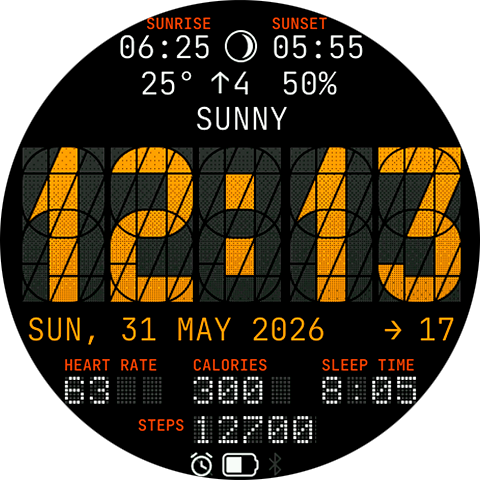
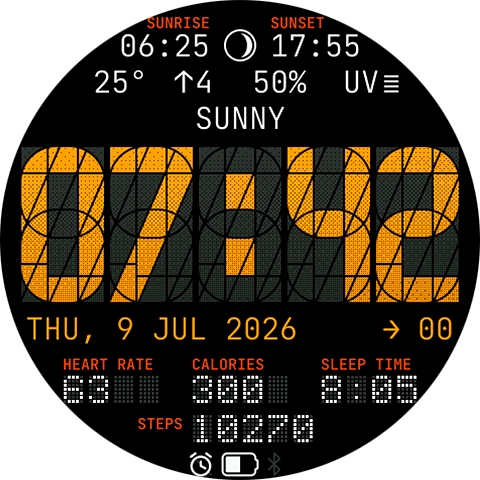
feat(segment 34): add uvi

diff --git a/src/watchfaces/segment-34/watchface/Weather.layout.js b/src/watchfaces/segment-34/watchface/Weather.layout.js
@@ -1,7 +1,9 @@
 import { COLOR_PRIMARY, FONT_PRIMARY } from './index.layout';
 
+import { gettext } from 'i18n';
+
 export const WEATHER_TEMP_TEXT_PROPS = {
-  x: px(115),
+  x: px(68),
   y: px(68),
   w: px(80),
   h: px(30),
@@ -16,7 +18,7 @@ export const WEATHER_TEMP_TEXT_PROPS = {
 };
 
 export const WEATHER_WIND_IMAGE_PROPS = {
-  x: px(210),
+  x: px(174),
   y: px(68),
   image_array: new Array(8).fill(null).map((_, i) => `wind/${i}.png`),
   image_length: 8,
@@ -28,7 +30,7 @@ export const WEATHER_WIND_IMAGE_PROPS = {
 
 export const WEATHER_WIND_TEXT_PROPS = {
   ...WEATHER_TEMP_TEXT_PROPS,
-  x: px(231),
+  x: px(195),
   align_h: hmUI.align.LEFT,
   type: hmUI.data_type.WIND,
   unit_type: 0,
@@ -36,7 +38,7 @@ export const WEATHER_WIND_TEXT_PROPS = {
 
 export const WEATHER_HUMIDUTY_TEXT_PROPS = {
   ...WEATHER_TEMP_TEXT_PROPS,
-  x: px(280),
+  x: px(252),
   align_h: hmUI.align.LEFT,
   type: hmUI.data_type.HUMIDITY,
   unit_type: 1,
@@ -53,5 +55,23 @@ export const WEATHER_TEXT_PROPS = {
   color: COLOR_PRIMARY,
   font: FONT_PRIMARY,
   text: '',
+  show_level: hmUI.show_level.ONLY_NORMAL,
+};
+
+export const UVI_TEXT_PROPS = {
+  ...WEATHER_TEMP_TEXT_PROPS,
+  x: px(342),
+  align_h: hmUI.align.LEFT,
+  text: gettext('uv'),
+};
+
+export const UVI_ICON_PROPS = {
+  x: px(380),
+  y: px(68),
+  image_array: new Array(5).fill(null).map((_, i) => `uvi/${i}.png`),
+  image_length: 5,
+  w: px(20),
+  h: px(30),
+  type: hmUI.data_type.UVI,
   show_level: hmUI.show_level.ONLY_NORMAL,
 };

diff --git a/src/watchfaces/segment-34/watchface/Weather.js b/src/watchfaces/segment-34/watchface/Weather.js
@@ -1,5 +1,7 @@
 import { WEATHER_DESCRIPTIONS } from './Weather.const';
 import {
+  UVI_ICON_PROPS,
+  UVI_TEXT_PROPS,
   WEATHER_HUMIDUTY_TEXT_PROPS,
   WEATHER_TEMP_TEXT_PROPS,
   WEATHER_TEXT_PROPS,
@@ -19,9 +21,14 @@ export class Weather {
 
   _buildTopWidgets() {
     hmUI.createWidget(hmUI.widget.TEXT_FONT, WEATHER_TEMP_TEXT_PROPS);
+
     hmUI.createWidget(hmUI.widget.IMG_LEVEL, WEATHER_WIND_IMAGE_PROPS);
     hmUI.createWidget(hmUI.widget.TEXT_FONT, WEATHER_WIND_TEXT_PROPS);
+
     hmUI.createWidget(hmUI.widget.TEXT_FONT, WEATHER_HUMIDUTY_TEXT_PROPS);
+
+    hmUI.createWidget(hmUI.widget.TEXT, UVI_TEXT_PROPS);
+    hmUI.createWidget(hmUI.widget.IMG_LEVEL, UVI_ICON_PROPS);
   }
 
   _buildWeatherConditions() {
